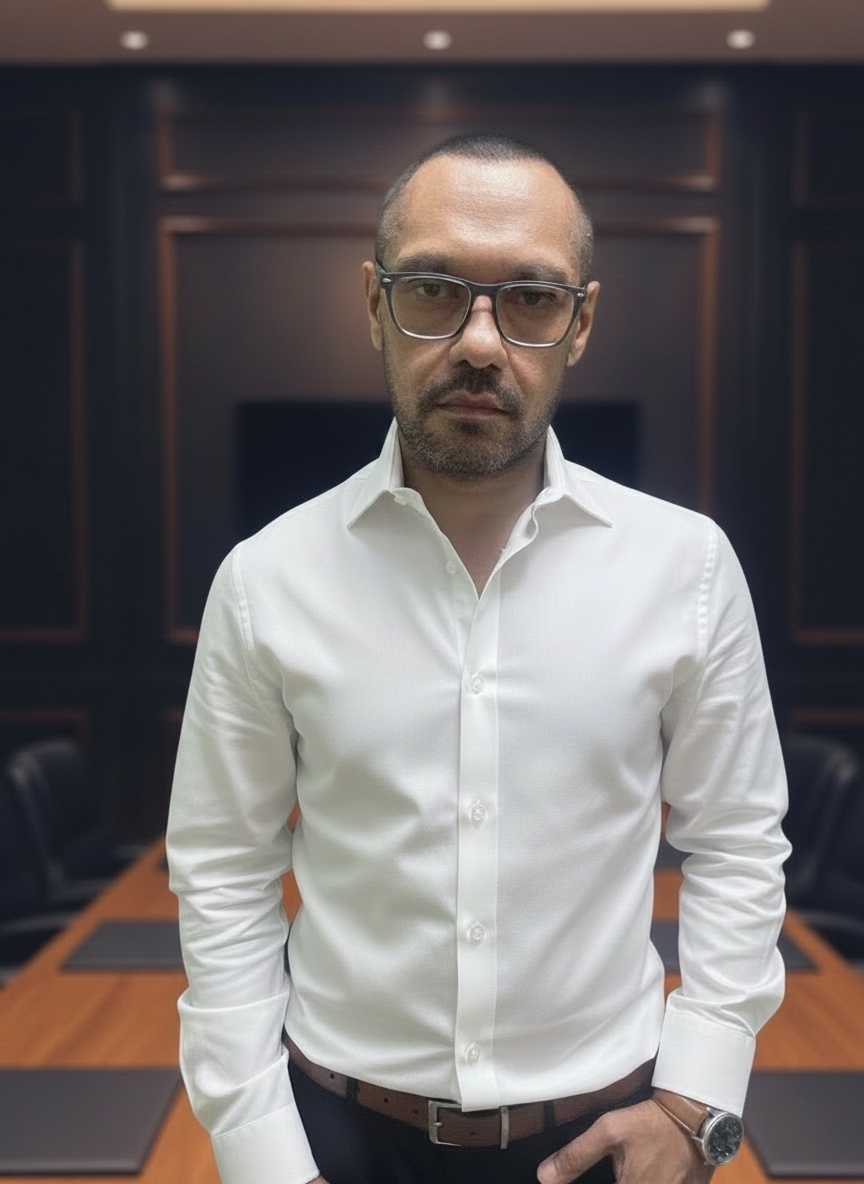
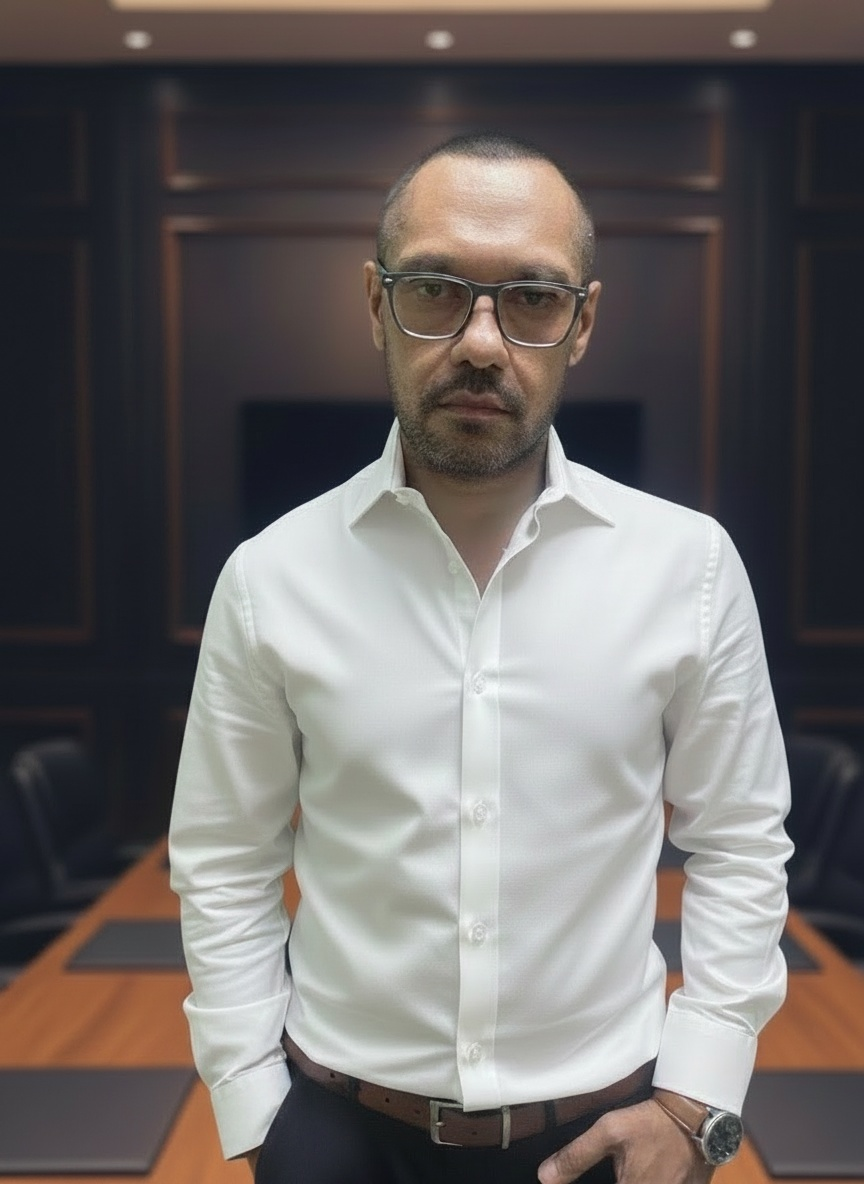
v3.2.5: portrait — focused right-arm sleeve smoothing
User flagged the subject's right arm (LEFT side of image, the
arm without the visible watch) still had visible elbow/forearm
wrinkles after v3.2.4. Single focused nano-banana pass on
RESET-A-face-body.jpg targeting that one arm only.

Result:
  ✓ Subject's right arm sleeve visibly smoother shoulder-to-cuff
  ✓ Elbow and forearm wrinkles largely eliminated
  ✓ Cotton weave preserved (no plastic)
  ✓ OTHER arm (with watch, right side of image) preserved exactly
  ✓ Face, background, table, vignette, identity all stable
  ✓ No new background elements added

V3-Clean folder:
  RESET-C-right-arm.jpg <-- shipped as portrait.jpg

Total face passes since CLEAN source: 3 (RESET-A face/body) + 1
(RESET-C right-arm only — no face touch). Face pixels still clean.

Cache-buster: portrait.jpg?v=3.2.4 -> ?v=3.2.5

diff --git a/index.html b/index.html
@@ -388,7 +388,7 @@
         <div class="about-grid">
           <figure class="portrait-figure">
             <div class="portrait-artwork">
-              <img src="assets/portrait.jpg?v=3.2.4"
+              <img src="assets/portrait.jpg?v=3.2.5"
                    alt="Taran Aujla, Salesperson with HomeLife G1 Realty Inc., Brokerage. Editorial portrait."
                    width="880" height="1184"
                    loading="lazy" decoding="async" />
